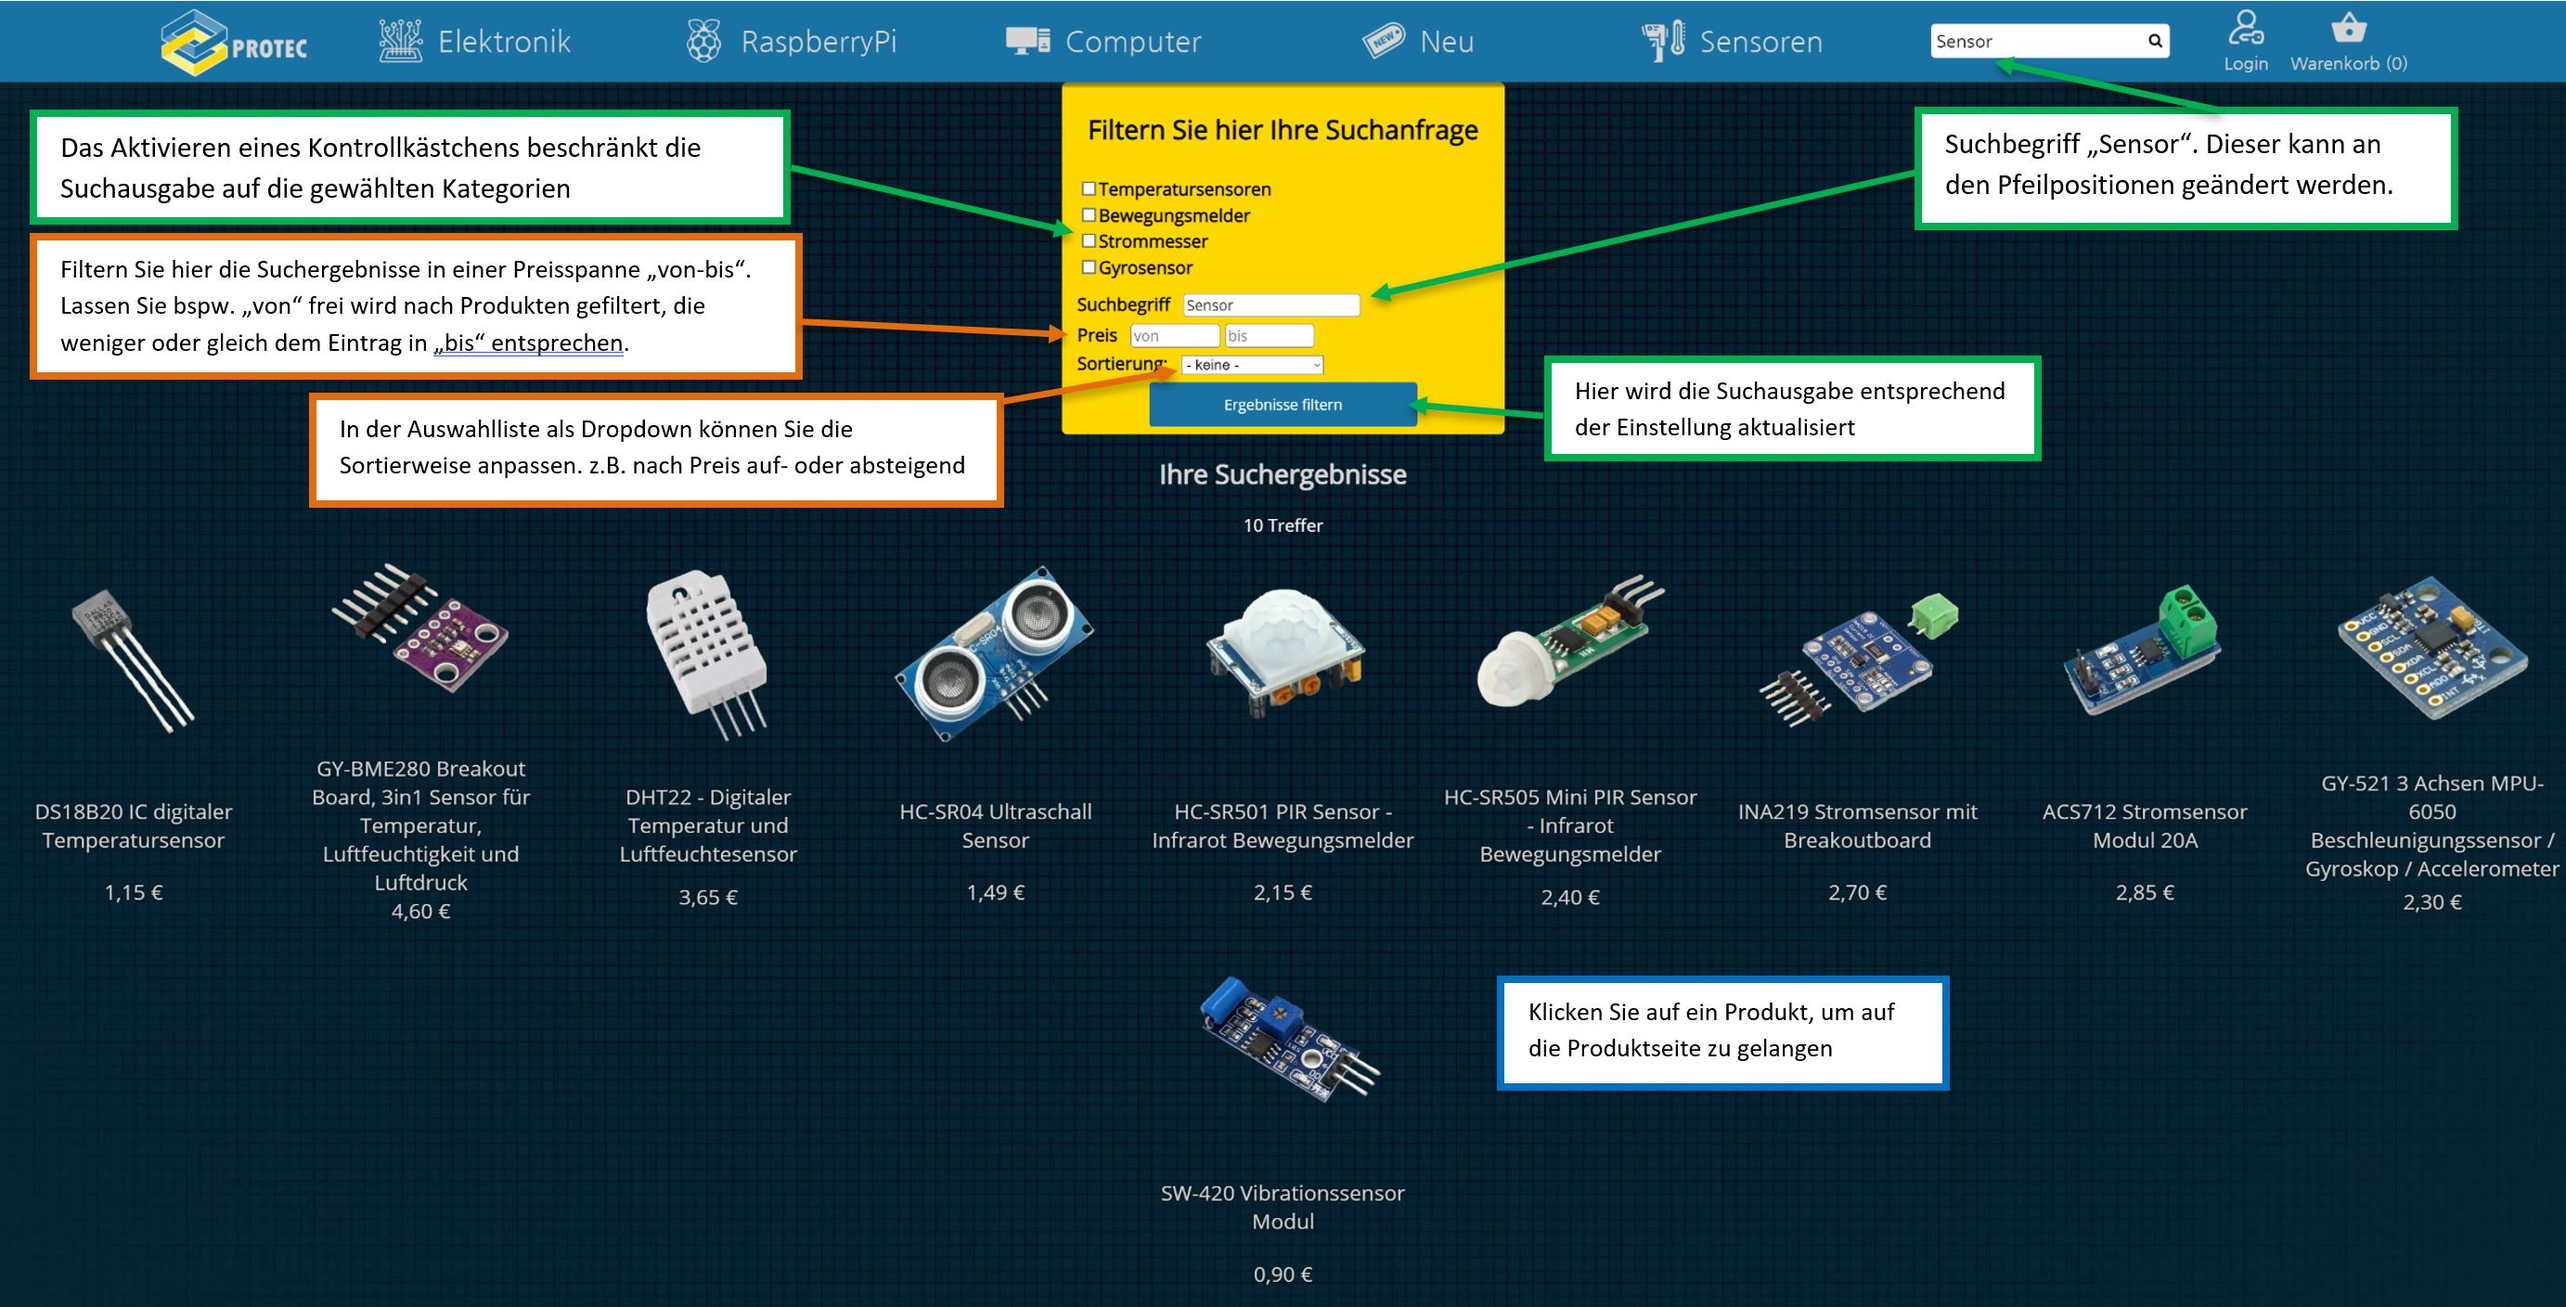
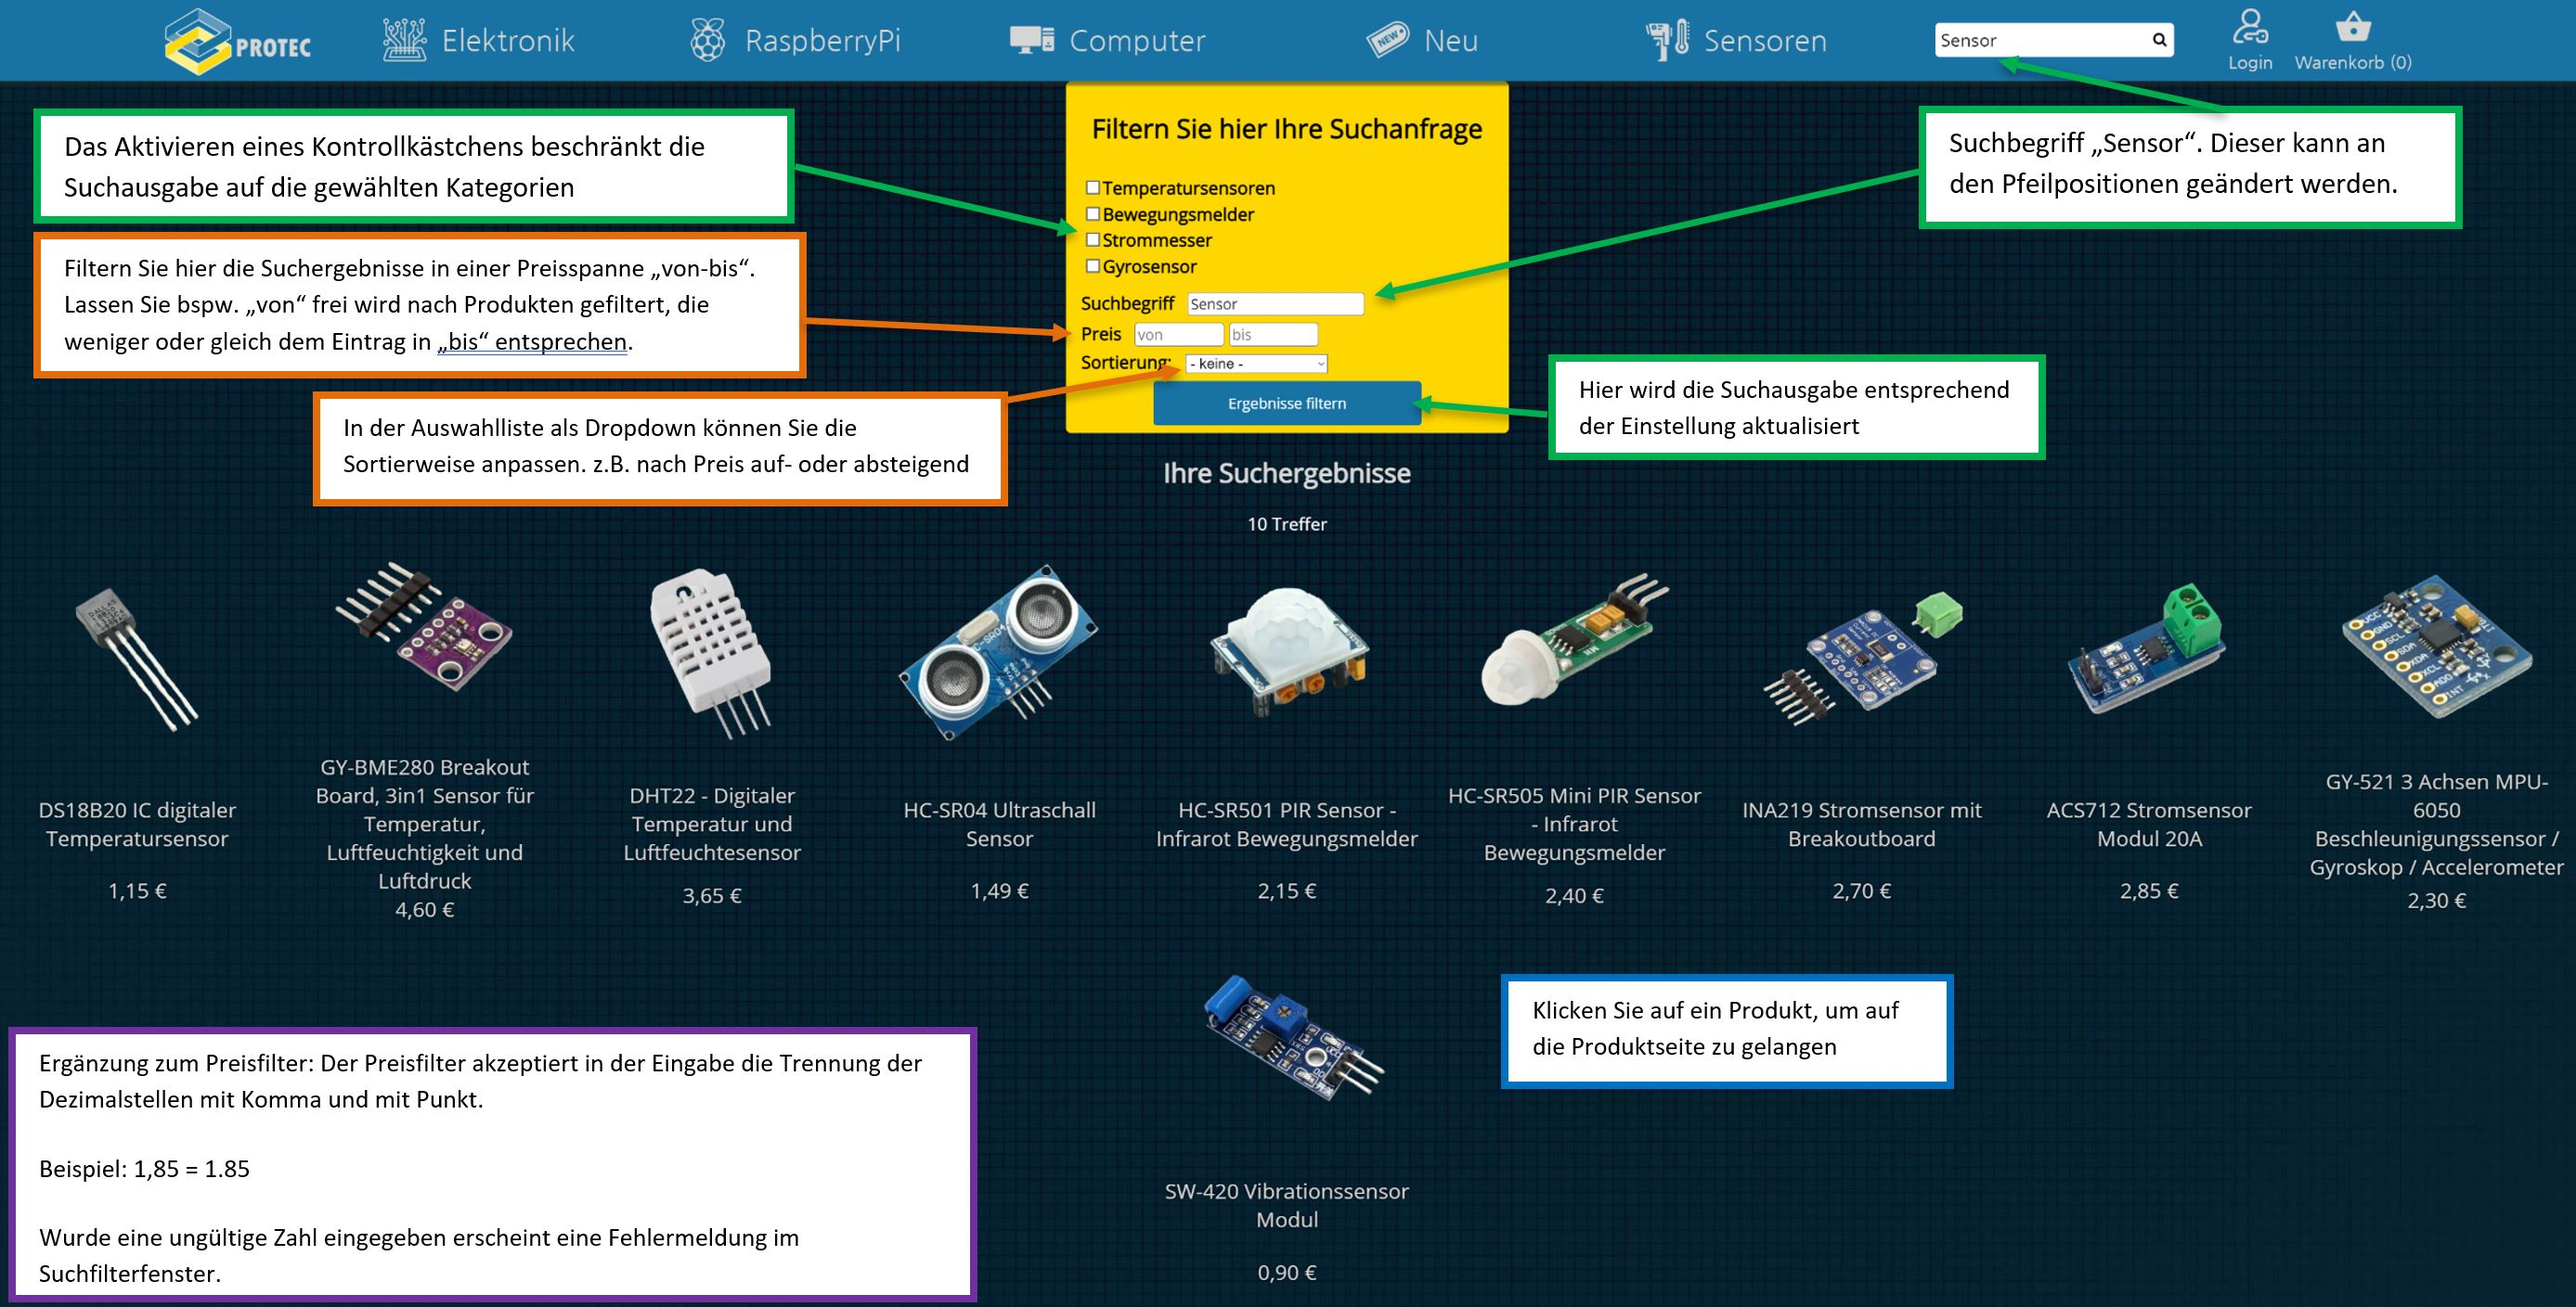
Anderungen

diff --git a/assets/css/commonMainPart.css b/assets/css/commonMainPart.css
@@ -238,16 +238,19 @@ main {
     border-radius: 4px;
     margin-left: 1%;
     margin-right: 1%;
+    display: flex;
+    flex-direction: column;
+    justify-content: center;
 }
 
 .cookieBanner p {
     color: black;
-    width: 90%;
 }
 
 .cookieBanner #linkToInfo {
     color: black;
     width: 90%;
+    text-align: center;
 }
 
 .cookieBanner #understoodButton {

diff --git a/controller/productsController.php b/controller/productsController.php
@@ -160,43 +160,87 @@ class ProductsController extends \protec\core\Controller
         $title='ProTec > Checkout';
         $this->setParam('title', $title);
     }
+
     public function actionCheckoutAfterPurchase()
     {
+        echo "<br><br><br><br><br><br><br><br><br>";
         $db = $GLOBALS["db"];
 
         $values['customerID']=$_SESSION['customerID'];
+        
         $shippingAddress=$_SESSION['shippingAddress'];
+           
         $values['shippingAddressID']=$shippingAddress->addressID;
         $purchase=new \protec\model\Purchase($values);
         $purchase->insert();
         $purchaseID=$db->lastInsertId();
 
+        echo "<pre style=color:green;>";
+        echo "customer: " . $values['customerID'] . "<br>";
+        echo "ShippingAdressID: " . $values['shippingAddressID'] . "<br>";
+        echo "lastinsertedID: " . $purchaseID . "<br>";
+        
+        echo "</pre>";
+        echo "<pre style=color:yellow;>";
+        echo "alle elemente basket <br>";
+        foreach ($_SESSION['productBasket'] as $element)
+        {   echo "<pre style=color:yellow;>";
+            echo "im korb productID: " . $element->productID;
+            echo "</pre>";
+            foreach ($element as $deepElement)
+            {
+                echo "<pre style=color:deeppink;>";
+                echo "DEEP";
+                echo $deepElement;
+                echo "</pre>";
+            }
+        }
+        echo "</pre>";
 
         $values=[];
 
         foreach($_SESSION['productBasket'] as $productBasketEntry)
         {
-            $productBasketEntry->purchaseID=$purchaseID;
-
-            echo "<pre>";
+            echo "<pre style=color:red;>";
+            echo "KRASS" . $productBasketEntry->purchaseID;
             print_r($productBasketEntry);
+            echo "vardump: " ;
+            var_dump($productBasketEntry) ;
+            echo " :end of vardump";
+            print_r(get_object_vars($productBasketEntry));
+            $productBasketEntry->purchaseID=$purchaseID;
             echo "</pre>";
-            foreach($productBasketEntry as $key=>$value)
+           
+            echo "<pre style=color:white;>";
+            echo "Allgemeiner Zugriff <br>";
+            echo "1. " . $productBasketEntry->productID . "<br>";
+            echo "2. " . $productBasketEntry->productID . "<br>";
+            
+            echo "START";
+            echo "typ: " . gettype($productBasketEntry)."<br>";
+            
+            echo "</pre>";
+            $testarray = [1,2];
+            foreach($productBasketEntry as $element)
             {
+                echo "<pre style=color:gold;>";
+                echo "GOLD: ";
                 $values[$key]=$value;
+                
                 echo $key;
                 echo $value;
-                exit(1);
+                //exit(1);
+                echo "</pre>";
             }
             echo "<pre>";
             print_r($values);
             echo "</pre>";
-            exit(1);
+            //exit(1);
             $productBasketEntry->insert($values);
         }
 
 
-        $_SESSION['productBasket']=null;
+        //$_SESSION['productBasket']=null;
         $title='ProTec > Ihr Einkauf';
         $this->setParam('title', $title);
     }

diff --git a/views/pages/login.php b/views/pages/login.php
@@ -35,55 +35,6 @@
         <a style="font-size:small" href="index.php?c=accounts&a=signup">Noch nicht registiert?</a>
         </div>
         <div class="Tests" style="color:white;font-size:large">
-        <?
-        /*echo "Testfeld für Cookies";
-        echo "<br>";
-        if(isset($_SESSION['username']))
-        {
-            $user = $_SESSION['username'];
-        }
-        else {$user = ":   Nicht angemeldet!!!";}
-        if(isset($_POST['Remember']))
-        {
-            $status = $_POST['Remember'];
-        }
-        else {$status = "off";}*/
-
-
-//debug Area
-       /* echo "User aus Session: " .  $user  ;
-        echo "<br>";
-        echo "RememberMe Status: " . $status ;
-        echo "<br>";
-        if(isset($_COOKIE['email'])){
-        echo "COOKIE EMAIL: " . $_COOKIE['email'];
-        }
-        else {echo "cookie email is not set";}
-        echo "<br>";
-        if(isset($_COOKIE['password'])){
-            echo "COOKIE PW encryped: " . $_COOKIE['password'];
-            }
-        else {echo "cookie PW Hash is not set";}
-       echo "<hr>";
-       $db = $GLOBALS['db'];
-       $emailtest = "Selen@giga.com";
-       $customerTable = \protec\model\Customer::findOne('eMail = '.$db->quote($emailtest) );
-       echo "<pre>";
-      var_dump($customerTable);
-      echo "</pre>";*/
-//debug Area
-
-
-
-
-
-
-
-        ?>
-
-
-
-
         </div>
     </main>
 </body>

diff --git a/views/servicepages/documentation.php b/views/servicepages/documentation.php
@@ -246,6 +246,8 @@
             <img src="<?=IMAGESPATH?>/screenshots/searchFilter.jpg" alt="searchFilterPage Screenshot" width=90%>
             <h2>Beispiel für fehlgeschlagene Suche</h2>
             <img src="<?=IMAGESPATH?>/screenshots/searchFilterFailed.jpg" alt="searchFilterFailedPage Screenshot" width=90%>
+            <h4>Anmerkungen zu Falscheingaben</h4>
+            <p>Das Eingeben von negativen Werten im Preisfilter sorgt für ausbleibende Ergebnisse</p>
         </details>
 
         <details>
@@ -256,6 +258,11 @@
         <details>
             <summary>Warenkorb</summary>
             <img src="<?=IMAGESPATH?>/screenshots/cartPage.jpg" alt="cartPage Screenshot" width=90%>
+        </details>
+
+        <details>
+            <summary>Cookie Banner</summary>
+            <img src="<?=IMAGESPATH?>/screenshots/cookieBanner.jpg" alt="cookieBanner Screenshot" width=90%>
         </details>
 
         </ul>

diff --git a/views/pages/footer.php b/views/pages/footer.php
@@ -76,12 +76,12 @@
     <?if(!isset($_COOKIE['cookieStatus'])) :?>
     <div class="cookieBanner">
         <p>Wir nutzen <b>Cookies</b> für ein einmaliges Nutzererlebnis, wenn Sie diese Seite benutzen stimmen die den Konditionen zu</p>
-        <a id="linkToInfo" href="index.php?c=infopages&a=privacyGuidelines">Datenschutzbestimmungen</a> 
+        <a id="linkToInfo" href="index.php?c=infopages&a=privacyGuidelines">Datenschutzbestimmungen lesen</a> 
         <form method="post">
             <button id="understoodButton" type="button" name="cookiesUnderstood">Verstanden</button>
         </form>
     </div>
-    <br>
+    
     
     <?endif?>
     
